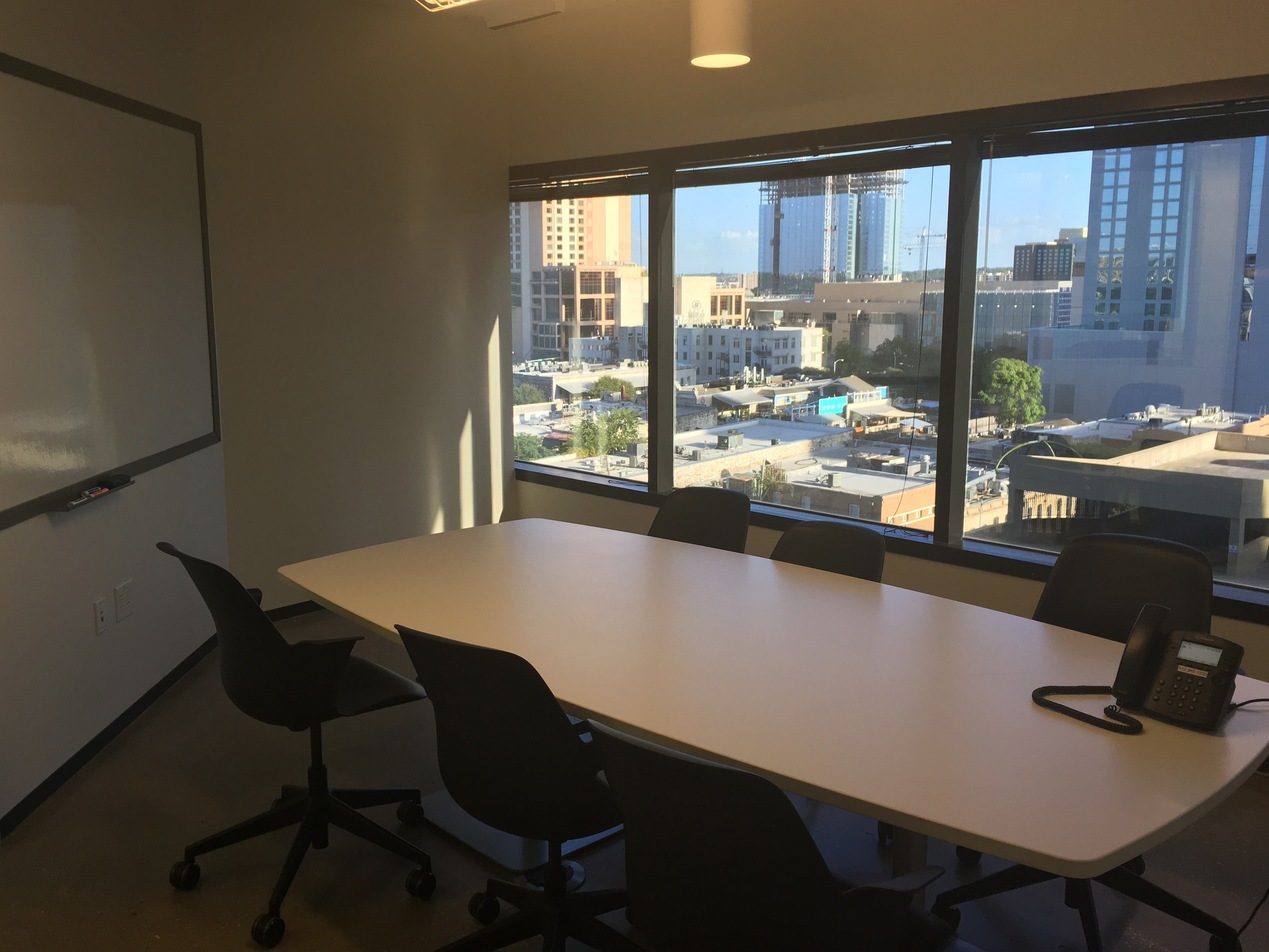
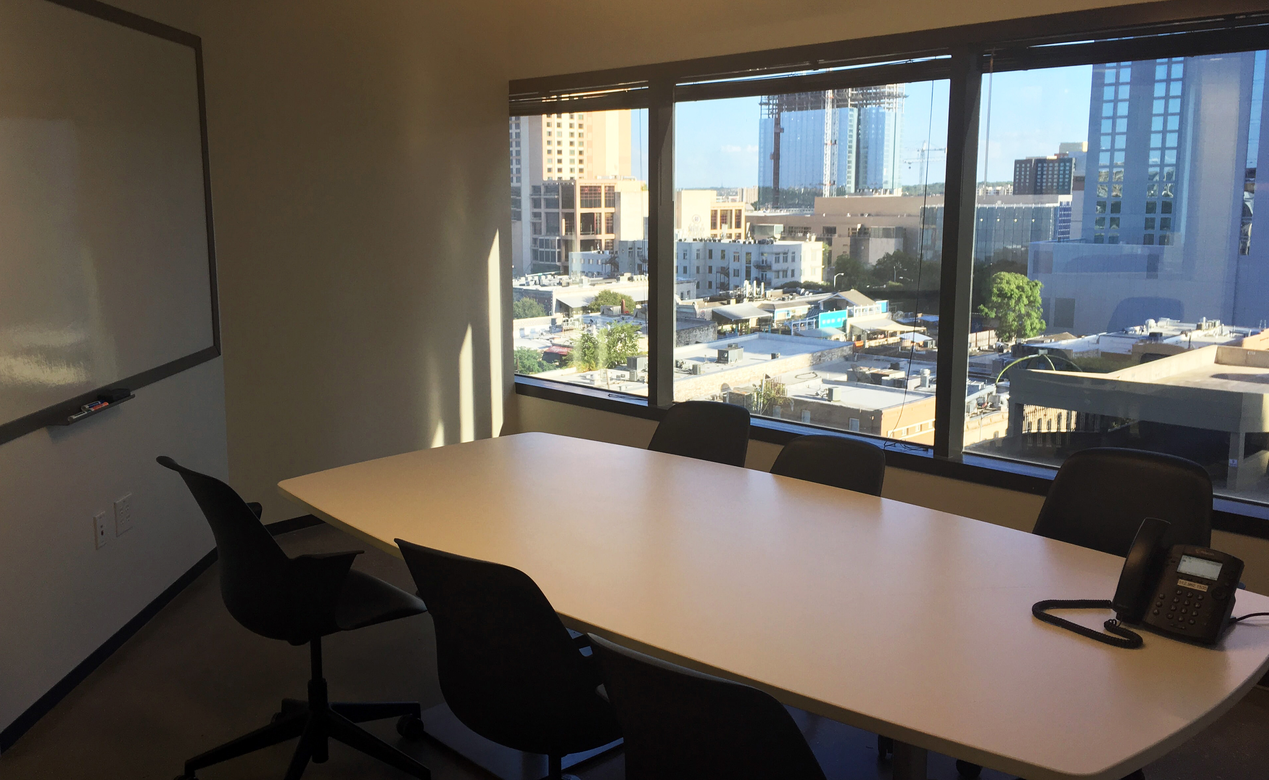
update modal images

diff --git a/client/components/room.js b/client/components/room.js
@@ -54,7 +54,7 @@ export default class Room extends Component {
               <p> Hammock: {room.hammock ? "Yes" : "No"} </p>
             </div>
             <div className="roomAvailability">
-              <h3>{room.roomName} is currently <span>OPEN</span></h3>
+              <h3>currently <span>available</span></h3>
               <button className="scheduleBtn">TODAY'S SCHEDULE</button>
             </div>
           </Modal.Body>

diff --git a/client/public/styles.css b/client/public/styles.css
@@ -65,6 +65,10 @@ img.roomImage {
 .roomImageContainer {
   border-radius: 20px;
   overflow: hidden;
+  width: 100%;
+  max-height: 300px;
+  overflow: hidden;
+  margin: auto;
 }
 
 
@@ -77,6 +81,7 @@ img.roomImage {
   color: #0073b7;
   font-size: 2em;
   letter-spacing: 0.05em;
+  font-weight: lighter;
 }
 
 .roomDetails {
